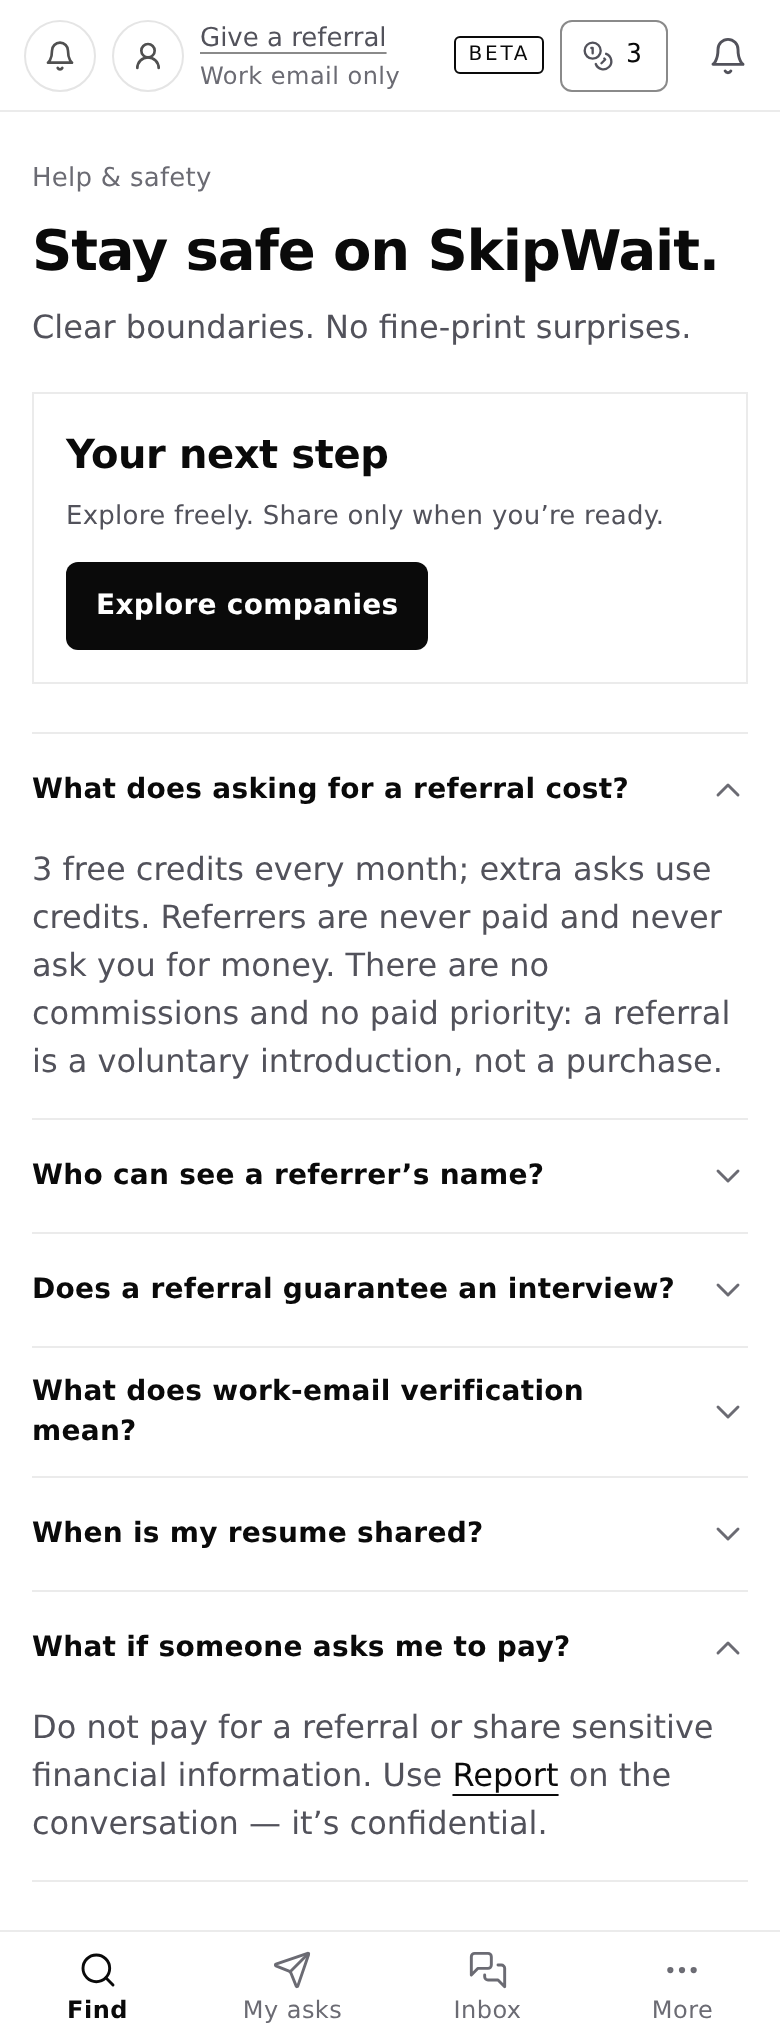
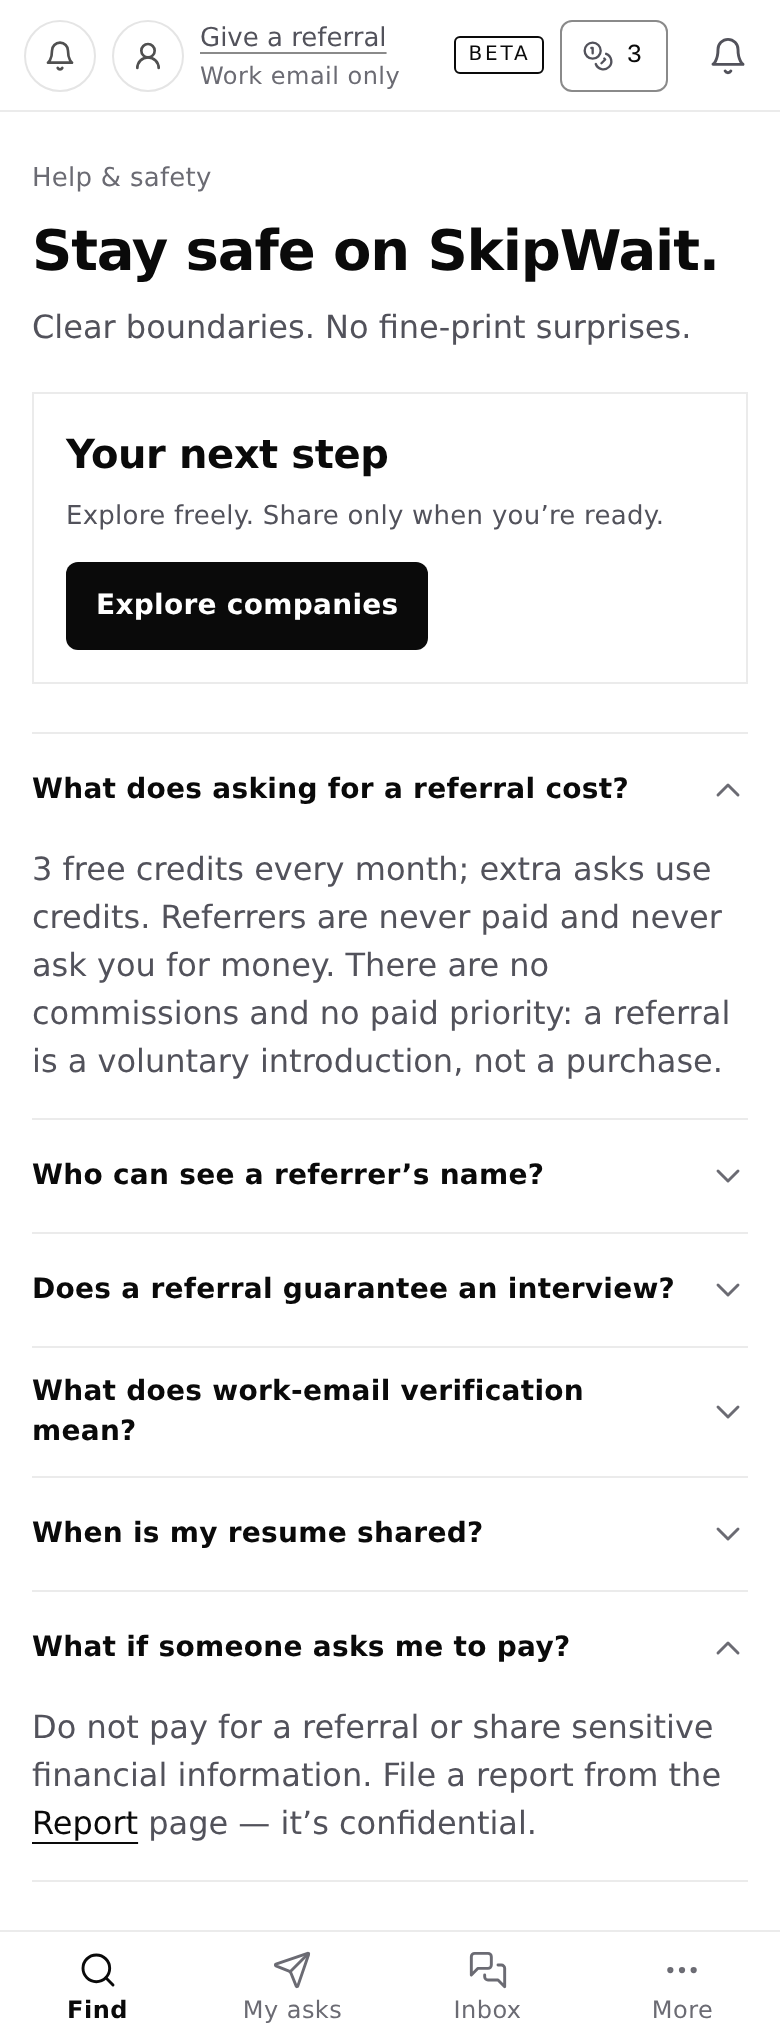
D-048-p3-support: fix review 6566372499 follow-up — money answers name a generic report entry ('File a report from the Report page'), no thread or request linkage implied; safety-pay-open captures refreshed (synthetic, mocked API) (48/48) (Hark · 5de4)

Changed region(s): [[0.4923, 0.8639, 0.9231, 0.8947], [0.0308, 0.8639, 0.2769, 0.9256], [0.3692, 0.8639, 0.4308, 0.8947]]

diff --git a/client/src/pages/goal/support/supportContent.ts b/client/src/pages/goal/support/supportContent.ts
@@ -40,7 +40,9 @@ export const HELP_ANSWERS: ReadonlyArray<HelpAnswer> = [
   { category: "Plans & referrals", question: "How do I cancel?", answer: "Open Plans and manage your subscription there. You keep access until the period ends." },
   { category: "Account & privacy", question: "Who can see my resume?", answer: "Only a referrer who accepted your referral request." },
   { category: "Account & privacy", question: "How do I delete my account?", answer: "Settings lets you download your data or request account deletion. A deletion request is recorded and its status shows in Settings; records are not removed instantly." },
-  { category: "Safety", question: "Someone asked me for money.", answer: "Don't pay. Use Report on the conversation (the other person isn't told who reported them), or contact support." },
+  // Review 6566372499 follow-up: the conversation's Report link is a bare
+  // /report that binds no thread or request, so this names a generic entry.
+  { category: "Safety", question: "Someone asked me for money.", answer: "Don't pay. File a report from the Report page (the other person isn't told who reported them), or contact support." },
   // Review 6566372499: the conversation pages link to a bare /report, which has
   // no block toggle, so this answer neither sends people there for it nor says
   // support will block. It gives the path that exists: file, keep the

diff --git a/client/src/pages/goal/support/GoalSafety.tsx b/client/src/pages/goal/support/GoalSafety.tsx
@@ -20,7 +20,8 @@ const ROW = "g-hit flex min-h-14 w-full cursor-pointer items-center justify-betw
 
 const rows: ReadonlyArray<{ question: string; answer: ReactNode }> = [
   ...SAFETY_ANSWERS.map(([question, answer]) => ({ question, answer })),
-  { question: SAFETY_PAY_QUESTION, answer: <>Do not pay for a referral or share sensitive financial information. Use <Link href="/report" className="text-g-ink underline underline-offset-4">Report</Link> on the conversation — it&rsquo;s confidential.</> },
+  // Review 6566372499 follow-up: a generic report entry, no thread or request linkage implied.
+  { question: SAFETY_PAY_QUESTION, answer: <>Do not pay for a referral or share sensitive financial information. File a report from the <Link href="/report" className="text-g-ink underline underline-offset-4">Report</Link> page — it&rsquo;s confidential.</> },
 ];
 
 export default function GoalSafety() {
